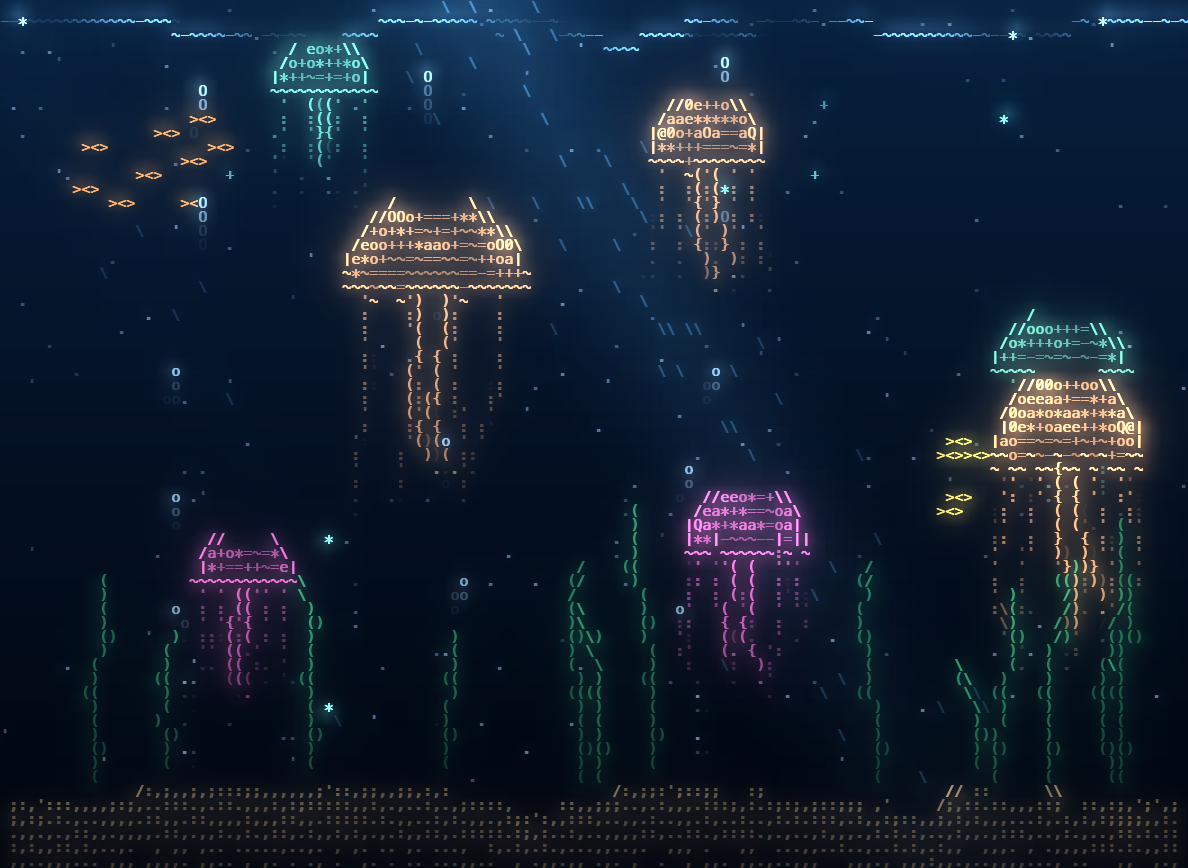
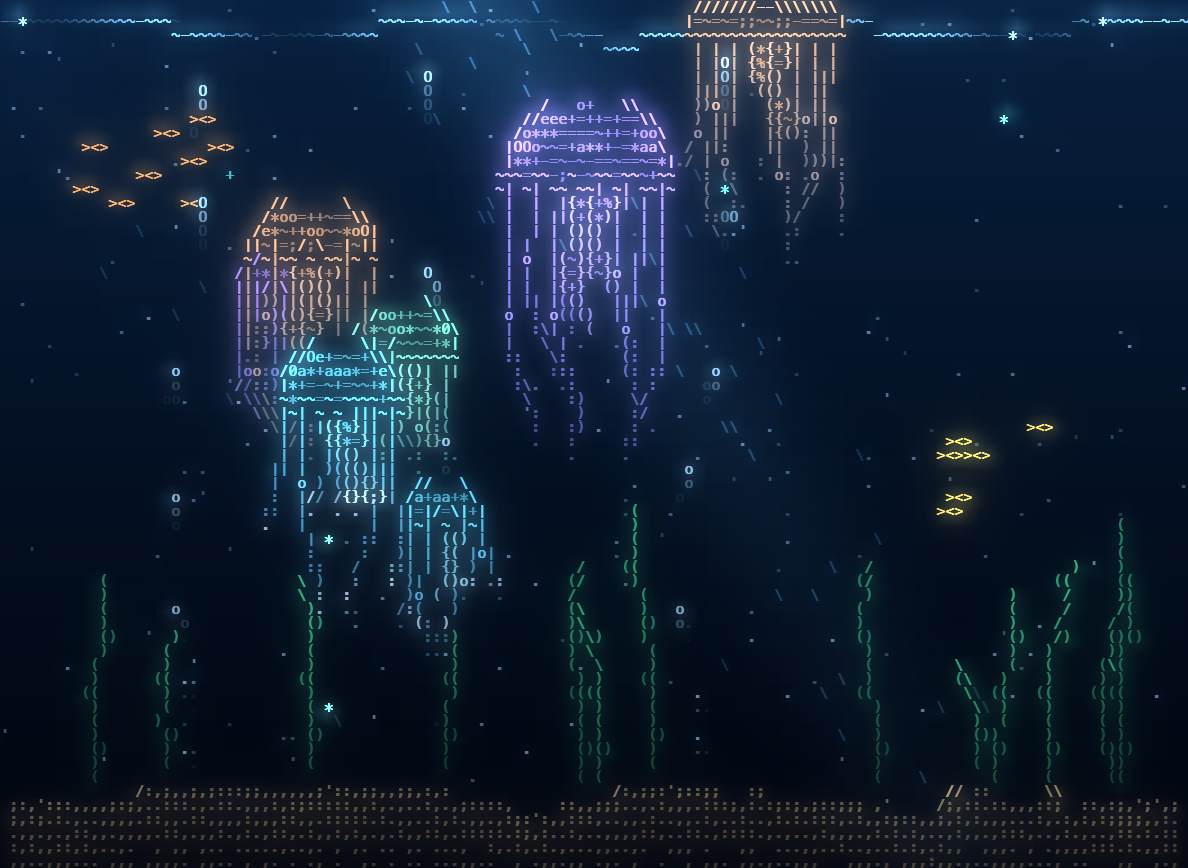
Give the jellyfish defined, detailed tentacles
Threads are traced cell by cell so they never break, with | / \ by
direction and ( ) where they curve, tapering to : and . at the tip,
and a few stinger beads. The oral arms become ruffled ribbons with
{ } edges and folded insides. A pulse of light runs down every strand
on each beat. Thread count now scales with bell size.

diff --git a/jellyfish.py b/jellyfish.py
@@ -28,7 +28,11 @@ N_JELLIES = 7
 JELLY_HUES = np.array([[1.0, 0.45, 0.78], [0.72, 0.52, 1.0], [0.42, 0.90, 1.0],
                        [1.0, 0.68, 0.42], [0.55, 1.0, 0.80]])
 BELL_RAMP = RAMP(".,:;-~=+*oaeO0Q@")
+ARM_RAMP = RAMP(":;~=+*%&8")                    # the inside of the ruffled oral arms
+COOL = np.array([0.45, 0.65, 1.0])              # tentacles cool toward this at their tips
 HISTORY = 200                                   # how many past bell positions the tentacles can follow
+STRAND_STEP = 0.5                               # rows between the points that shape a strand
+LAG = 0.75                                      # history frames each point trails the one above it
 
 # the sea
 TOP, BOTTOM = np.array([8.0, 34.0, 66.0]), np.array([1.0, 5.0, 15.0])   # water, surface to floor (0..255)
@@ -123,9 +127,9 @@ class Sea:
     def new_jelly(self, anywhere):
         rng = self.jelly_rng
         size = rng.uniform(2.8, 6.5)                                    # bell height, rows
-        n = int(rng.integers(4, 7))
-        u = np.concatenate([np.linspace(-0.8, 0.8, n) + rng.uniform(-0.08, 0.08, n), [-0.14, 0.14]])  # where each hangs
-        length = np.concatenate([rng.uniform(1.3, 2.6, n), rng.uniform(1.6, 2.2, 2)]) * size
+        n = int(3 + size * 0.9 + rng.integers(0, 2))                    # fine threads round the rim, 2 oral arms
+        u = np.concatenate([np.linspace(-0.92, 0.92, n) + rng.uniform(-0.05, 0.05, n), [-0.13, 0.13]])
+        length = np.concatenate([rng.uniform(1.6, 3.2, n), rng.uniform(1.5, 2.1, 2)]) * size
         j = dict(size=size, x=rng.uniform(0.08, 0.92) * self.cols,
                  y=rng.uniform(0.2, 0.95) * self.rows if anywhere else self.rows + size + 3,
                  rate=rng.uniform(0.35, 0.6), off=rng.random(), drift=rng.uniform(0, TAU),
@@ -183,28 +187,99 @@ class Sea:
         x = (p["x"] + 0.3 * np.sin(t * 0.3 + p["phase"])) % self.cols
         f.dots(p["y"][lit], x[lit], np.where(b[lit] > 0.5, G("*"), G("+")), PLANKTON * (0.3 + b[lit, None]))
 
+    @staticmethod
+    def strand_path(hist, u, length, ph, t, sway, wave):
+        # the points that shape one strand: each trails where its spot on the rim was a moment ago,
+        # with a wave running down it that grows toward the tip
+        n = max(4, int(length / STRAND_STEP))
+        k = np.arange(n)
+        s = k / (n - 1)
+        lag = np.minimum((k * LAG).astype(int), HISTORY - 1)
+        x = hist[lag, 0] + u * hist[lag, 2] * 0.95
+        x = x + sway * (0.4 + 2.2 * s) * s ** 0.8 * np.sin(t * wave - k * STRAND_STEP * 0.38 + ph)
+        y = hist[lag, 1] + 0.45 + k * STRAND_STEP
+        p = np.pad(x, 2, mode="edge")                                   # soften the per-frame steps of the history
+        return (p[:-4] + 2 * p[1:-3] + 3 * p[2:-2] + 2 * p[3:-1] + p[4:]) / 9, y
+
+    @staticmethod
+    def trace(x, y):
+        # walk a strand finely and give each cell it crosses the stroke that follows it:
+        # | / \ - by direction, and ( ) where a hanging stretch curves
+        d = np.maximum(np.abs(np.diff(x)), np.abs(np.diff(y)))
+        along = np.concatenate([[0.0], np.cumsum(d)])
+        m = max(12, int(along[-1] * 3))
+        q = np.linspace(0, along[-1], m)
+        xs, ys = np.interp(q, along, x), np.interp(q, along, y)
+        s = q / along[-1]
+        gx, gy = np.gradient(xs), np.gradient(ys)
+        steep = np.abs(gx * CW) < 0.42 * np.abs(gy * CH)
+        slope = gx / np.where(np.abs(gy) > 1e-6, gy, 1e-6)              # columns per row
+        bend = np.zeros(m)
+        bend[4:-4] = slope[8:] - slope[:-8]                             # < 0 bulges right ), > 0 bulges left (
+        glyph = stroke_for(gx * CW, -gy * CH)
+        glyph = np.where(steep, np.where(bend < -0.5, G(")"), np.where(bend > 0.5, G("("), G("|"))), glyph)
+        r, c = np.floor(ys).astype(int), np.floor(xs).astype(int)
+        new = np.ones(m, bool)
+        new[1:] = (r[1:] != r[:-1]) | (c[1:] != c[:-1])                 # one letter per cell crossed
+        return r[new], c[new], glyph[new], s[new]
+
+    @staticmethod
+    def thread_look(f, j, r, c, glyph, s, pulse_at, squeeze_, salt):
+        # a fine thread: solid strokes by the bell thinning to : and . at the tip, a few stinger beads
+        n = len(s)
+        bead = ((np.arange(n) + salt) % 9 == 0) & (s > 0.25) & (s < 0.75)
+        glyph = np.where((glyph == G("|")) & (s > 0.62), G(":"), glyph)
+        glyph = np.where(bead, G("o"), glyph)
+        glyph[-1] = G(".")
+        hue = j["hue"] + (COOL - j["hue"]) * (0.45 * s)[:, None]
+        col = hue * (j["dim"] * (0.95 - 0.55 * s) * (0.85 + 0.25 * squeeze_))[:, None]
+        col = np.where(bead[:, None], col * 1.35, col)
+        glow = np.exp(-((s - pulse_at) / 0.07) ** 2) * j["dim"]
+        f.dots(r, c, glyph, col + (1 - col) * (0.6 * glow)[:, None])
+
+    def draw_arm(self, f, j, x, y, ph, t, pulse_at, squeeze_):
+        # an oral arm: a ribbon a few letters wide with ruffled { } ( ) edges, narrowing to its tip
+        rows = np.arange(int(np.ceil(y[0])), int(y[-1]))
+        if len(rows) == 0:
+            return
+        mid = np.interp(rows + 0.5, y, x)
+        s = (rows + 0.5 - y[0]) / (y[-1] - y[0])
+        ruff = np.sin(s * 11 - t * 2.2 + ph)
+        half = (0.9 + 0.55 * ruff) * (1 - 0.65 * s) * (0.5 + 0.5 * j["size"] / 4.5)
+        pale = j["hue"] + (1 - j["hue"]) * 0.25
+        glow = np.exp(-((s - pulse_at) / 0.08) ** 2) * j["dim"]
+        cells = []
+        for row, xc, hw, rf, sv, gl in zip(rows, mid, half, ruff, s, glow):
+            left, right = int(np.floor(xc - hw + 0.5)), int(np.floor(xc + hw + 0.5))
+            edge = pale * j["dim"] * (1.0 - 0.45 * sv) * (0.85 + 0.25 * squeeze_)
+            edge = edge + (1 - edge) * 0.6 * gl
+            if right <= left:                                           # down to a single curl near the tip
+                cells.append((row, left, G(")") if rf > 0 else G("("), edge))
+                continue
+            curly = rf > 0.35
+            cells += [(row, left, G("{") if curly else G("("), edge), (row, right, G("}") if curly else G(")"), edge)]
+            for cc in range(left + 1, right):                           # the folds inside
+                lum = 0.7 - 0.45 * sv + 0.2 * np.sin(cc * 1.7 + row * 0.9 + ph)
+                inner = j["hue"] * j["dim"] * (0.45 + 0.4 * lum) * (0.85 + 0.25 * squeeze_)
+                cells.append((row, cc, int(ramp_pick(ARM_RAMP, lum, 0)), inner + (1 - inner) * 0.5 * gl))
+        r, c, g, col = zip(*cells)
+        f.dots(r, c, np.array(g), np.array(col))
+
     def draw_jelly(self, f, j, t):
         c, size = j["c"], j["size"]
         hist = np.array(j["hist"][::-1])                                # newest first
 
-        # tentacles: each point follows where the rim was a moment ago, swaying more toward the tip
-        for u, length, ph, frilly in zip(j["u"], j["length"], j["phase"], j["frilly"]):
-            n = max(3, int(length / 0.8))
-            k = np.arange(n)
-            lag = np.minimum((k * 1.1).astype(int), HISTORY - 1)
-            sway = (0.6 + 0.10 * k) * (k / n) ** 0.8 * np.sin(t * 1.4 - k * 0.3 + ph) * (1.5 if frilly else 1.0)
-            x = hist[lag, 0] + u * hist[lag, 2] * 0.92 + sway
-            y = hist[lag, 1] + 0.4 + k * 0.8
-            dx, dy = np.diff(x, append=2 * x[-1] - x[-2]), np.diff(y, append=2 * y[-1] - y[-2])
-            if frilly:                                                  # the frilly arms in the middle: ( ) { }
-                bend = np.sin(t * 1.4 - k * 0.3 + ph) > 0
-                glyph = np.where(k % 3 == 0, np.where(bend, G("}"), G("{")), np.where(bend, G(")"), G("(")))
-            else:                                                       # fine threads: : where they hang straight
-                glyph = stroke_for(dx * CW, -dy * CH)
-                glyph = np.where(glyph == G("|"), np.where(k % 2 == 0, G(":"), G("'")), glyph)
-            glyph = np.where(k == n - 1, G("."), glyph)
-            fade = (0.95 if frilly else 0.65) - (0.45 if frilly else 0.5) * k / n
-            f.dots(y, x, glyph, j["hue"] * (j["dim"] * fade * (0.85 + 0.3 * c))[:, None], move=True)
+        # a pulse of light leaves the bell on each squeeze and runs down every strand
+        pulse_at = ((t * j["rate"] + j["off"]) % 1.0) * 1.6
+        threads = [s for s in zip(j["u"], j["length"], j["phase"], j["frilly"]) if not s[3]]
+        arms = [s for s in zip(j["u"], j["length"], j["phase"], j["frilly"]) if s[3]]
+        for i, (u, length, ph, _) in enumerate(threads):                # fine threads, behind the arms
+            x, y = self.strand_path(hist, u, length, ph, t, 1.0, 1.4)
+            r, cc, glyph, s = self.trace(x, y)
+            self.thread_look(f, j, r, cc, glyph, s, pulse_at, c, salt=i * 4)
+        for u, length, ph, _ in arms:
+            x, y = self.strand_path(hist, u, length, ph, t, 1.3, 0.9)
+            self.draw_arm(f, j, x, y, ph, t, pulse_at, c)
 
         # the bell: a dome with a scalloped skirt, squeezed narrow and tall on each beat
         x, y = j["x"], j["y"]

diff --git a/README.md b/README.md
@@ -60,7 +60,10 @@ python3 scene.py [seed] [width] [height]
   matters (`/` to `\`, `^` to `v`) and broken by drifting streaks, with glints under the moon.
 - **Jellyfish:** the bell is a dome with a scalloped skirt that squeezes narrow and tall on each
   beat, which pushes it up. Each tentacle point follows where the rim was a moment ago, so the
-  strands stream and settle as the bell pulses.
+  strands stream and settle as the bell pulses. Threads are traced cell by cell so they never
+  break: `| / \` by direction, `( )` where they curve, thinning to `:` and `.` at the tip, with
+  stinger beads along them. The oral arms are ruffled ribbons with `{ }` edges, and a pulse of
+  light runs down every strand on each beat.
 - **Sea:** the light rays are soft bands glowing behind the letters, the sand shimmers with moving
   caustics, and the fish are classic `><>` and `><((('>`.
 
